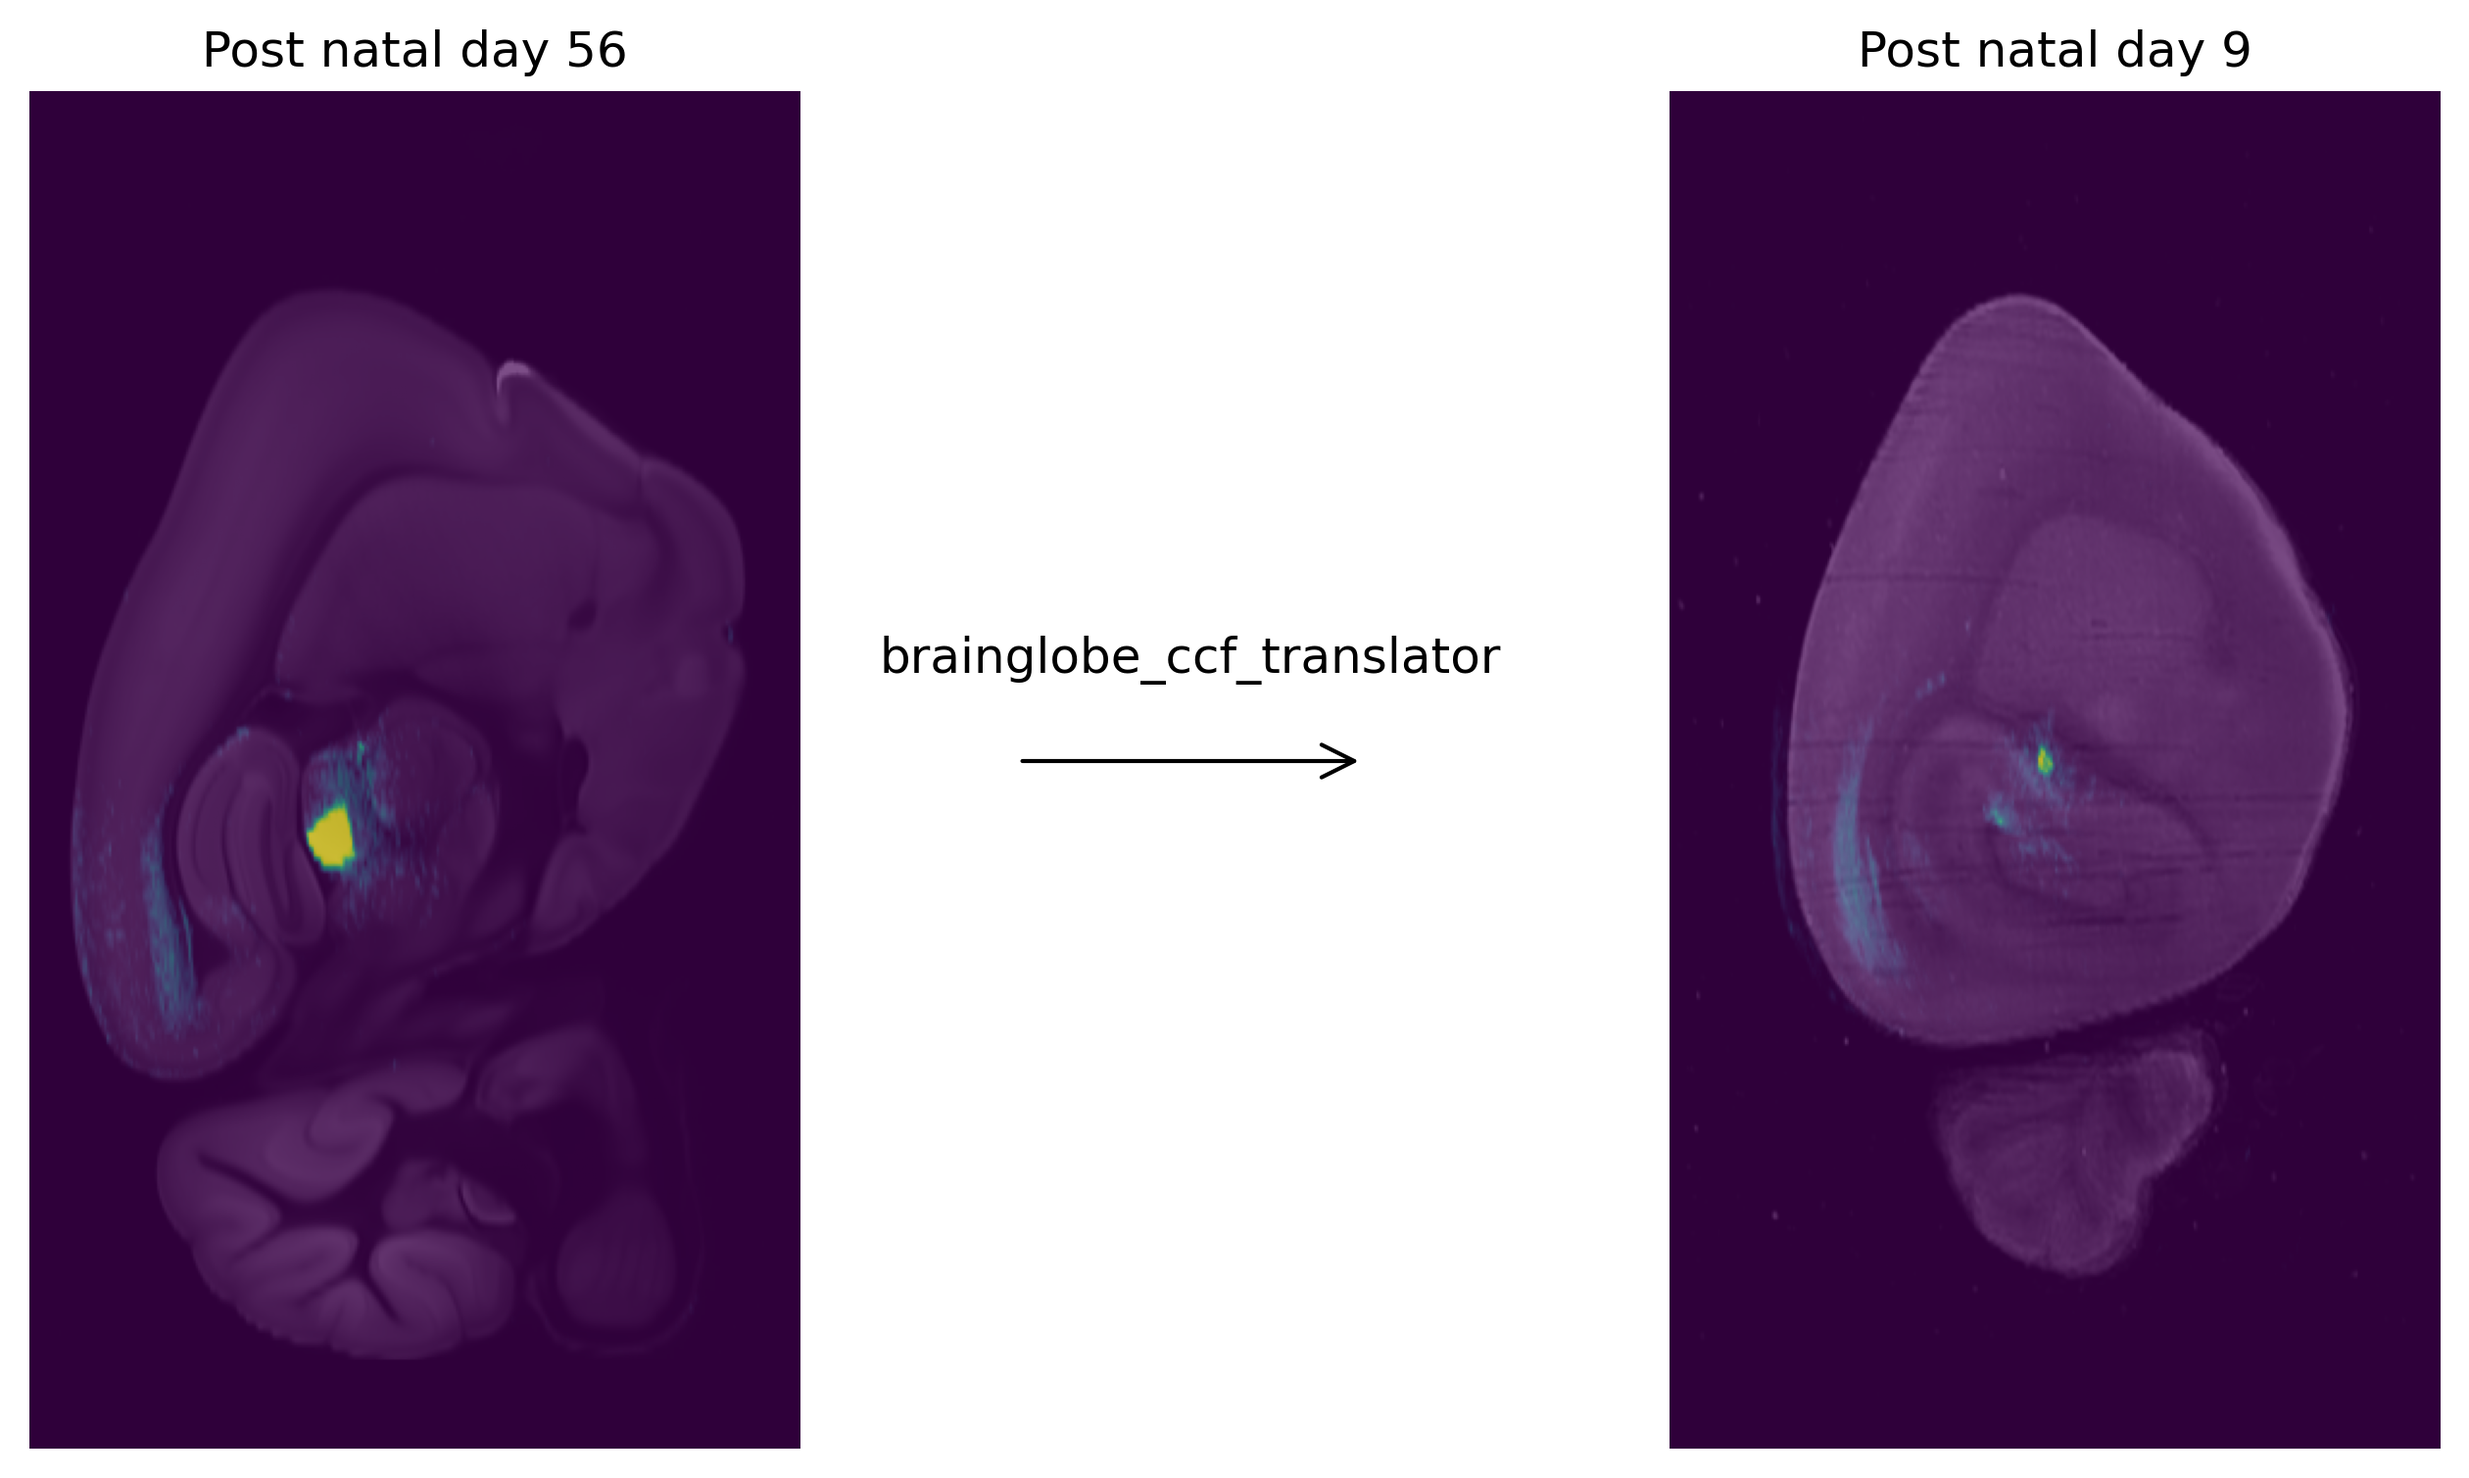
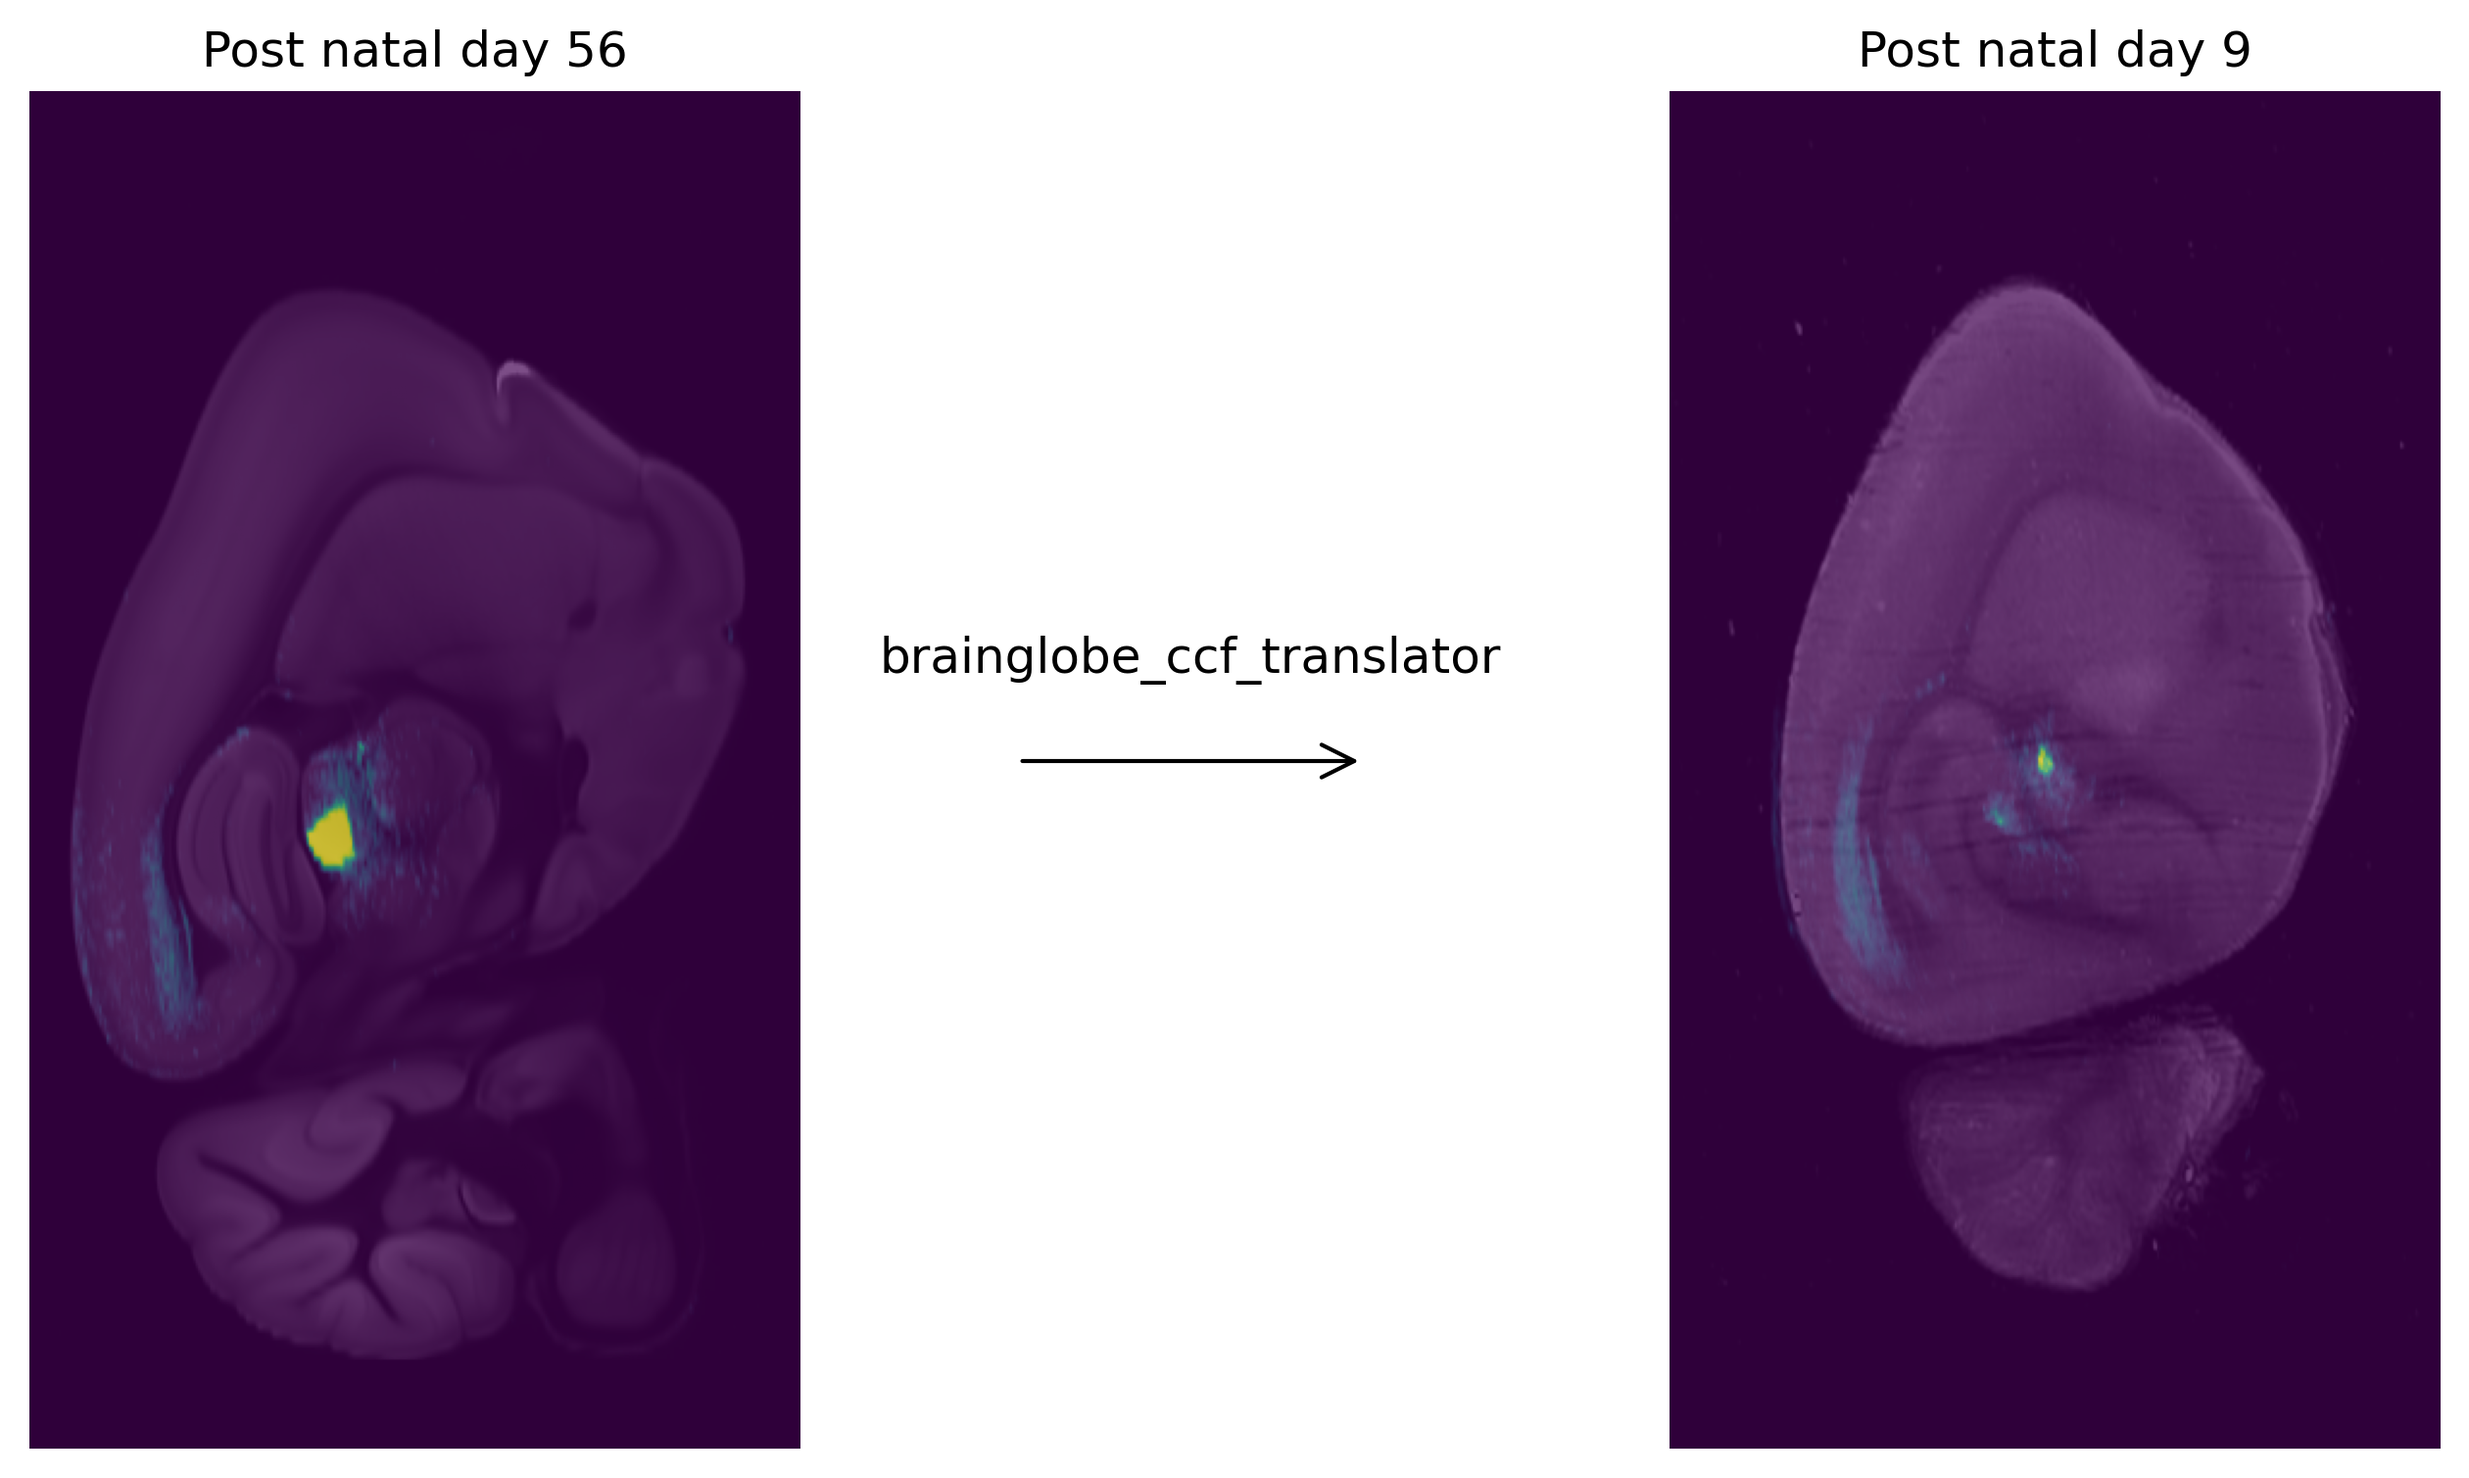
update slice index

diff --git a/tutorials/view_allen_connectivity.py b/tutorials/view_allen_connectivity.py
@@ -65,8 +65,8 @@ def get_slice(volume, idx, axis):
         return volume[:, :, idx]
 
 slice_axis = 2  # 0=coronal, 1=horizontal, 2=sagittal
-slice_idx = -140
-young_slice_idx = -150
+slice_idx = 140
+young_slice_idx = 188
 
 # Calculate extents based on voxel sizes (in microns)
 adult_voxel_size = 25
@@ -75,7 +75,7 @@ young_voxel_size = 20
 # Get 2D slices along the chosen axis
 adult_slice = get_slice(demba_adult_template, slice_idx, slice_axis)
 adult_proj_slice = get_slice(P56_projection, slice_idx, slice_axis)
-young_slice = get_slice(demba_young_template, -young_slice_idx, slice_axis)
+young_slice = get_slice(demba_young_template, young_slice_idx, slice_axis)
 young_proj_slice = get_slice(young_projection, slice_idx, slice_axis)
 
 # Calculate physical extents [left, right, bottom, top]
